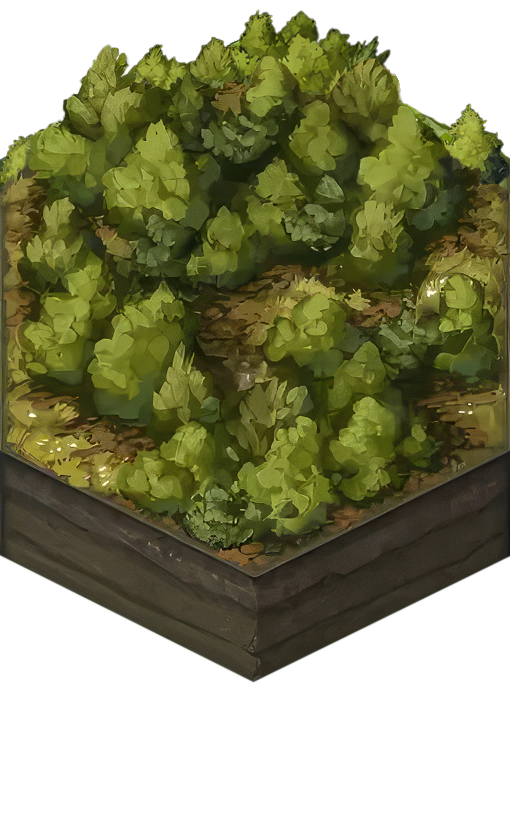
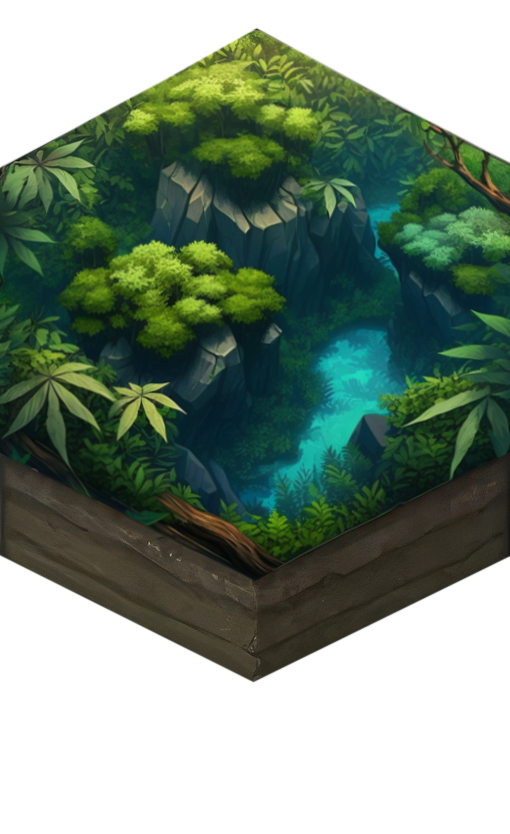
Nouvelles forêts

diff --git a/src/Vue/FenetreJeu.java b/src/Vue/FenetreJeu.java
@@ -59,14 +59,14 @@ public class FenetreJeu {
     private void initVignettePanel() {
         // Ajouter la vignette
         vignettePanel = new VignettePanel();
-        vignettePanel.setBounds(0, 0, 1400, 1000);
+        vignettePanel.setBounds(0, 0, largeur, hauteur);
         layeredPane.add(vignettePanel, JLayeredPane.PALETTE_LAYER);
     }
 
     private void initHexagonsPanel(ControleurMediateur controleur) {
         // Ajouter les tuiles hexagonales
         hexTiles = new HexagonalTiles(this, controleur, this.jeu);
-        hexTiles.setBounds(0, 0, 1400, 1000);
+        hexTiles.setBounds(0, 0, largeur, hauteur);
         layeredPane.add(hexTiles, JLayeredPane.DEFAULT_LAYER);
     }
 
@@ -80,7 +80,7 @@ public class FenetreJeu {
     private void initButtonPanel() {
         createButtonPanel();
         buttonPanel.setBackground(new Color(0,0,0,0));
-        buttonPanel.setBounds(0, 0, 1400, 1000);
+        buttonPanel.setBounds(0, 0, largeur, hauteur);
         buttonPanel.setOpaque(false);
         layeredPane.add(buttonPanel, JLayeredPane.POPUP_LAYER);
     }
@@ -98,19 +98,21 @@ public class FenetreJeu {
                 double rapport = 207.0 / 603.0;
                 largeur_bouton = Math.min(Math.max(Math.min(largeur / 6, hauteur / 6), 100), 190);
                 hauteur_bouton = (int) (largeur_bouton * rapport);
-                posX_boutons = (int) (largeur * 0.95 - largeur_bouton);
+                posX_boutons = largeur - largeur_bouton - 35;
                 posY_save = 0;
                 posX_save = posX_boutons - largeur_bouton - largeur_bouton / 10;
                 posY_annuler = posY_save + 2 * hauteur_bouton + hauteur_bouton / 5;
                 posY_refaire = posY_annuler + hauteur_bouton + hauteur_bouton / 5;
                 posY_reset = posY_refaire + hauteur_bouton + hauteur_bouton / 5;
-                posY_quitter = (int) Math.max(posY_refaire + hauteur_bouton + hauteur_bouton / 5, hauteur - 1.5 * hauteur_bouton);
+                posY_quitter = (int) Math.max(posY_refaire + 39 + hauteur_bouton + hauteur_bouton / 5, hauteur - 1.5 * hauteur_bouton - 39);
                 afficheBoutonSave(g2d);
                 afficheBoutonLoad(g2d);
                 afficheBoutonAnnuler(g2d);
                 afficheBoutonRefaire(g2d);
                 afficheBoutonReset(g2d);
                 afficheBoutonQuitter(g2d);
+                //System.out.println("hauteur menu : " + getHeight());
+                //System.out.println("hauteur frame : " + f.getHeight());
             }
         };
     }
@@ -122,15 +124,17 @@ public class FenetreJeu {
         //récupère la taille de l'écran
         Dimension screenSize = Toolkit.getDefaultToolkit().getScreenSize();
         //Définit la taille de la fenêtre à 60% de la taille de l'écran
-        f.setSize(screenSize.width * 6 / 10, screenSize.height * 6 / 10);
+        largeur = screenSize.width * 6 / 10;
+        hauteur = screenSize.height * 6 / 10;
+        f.setSize(largeur, hauteur);
         f.setDefaultCloseOperation(JFrame.EXIT_ON_CLOSE);
         f.setLocationRelativeTo(null);
     }
 
     private JFrame getF() {
-        bouton_save = lisImageBuf("save");
+        bouton_save = lisImageBuf("Sauvegarder");
         //bouton_save_select = lisImageBuf("Sauvegarder_select");
-        bouton_load = lisImageBuf("load");
+        bouton_load = lisImageBuf("Charger");
         //bouton_load_select = lisImageBuf("Charger_select");
         bouton_annuler = lisImageBuf("Annuler");
         //bouton_annuler_select = lisImageBuf("Annuler_select");

diff --git a/src/Vue/FenetreListener.java b/src/Vue/FenetreListener.java
@@ -91,8 +91,10 @@ public class FenetreListener extends MouseAdapter implements MouseWheelListener 
     ////////////////////////////
     public class MouseHandler extends MouseAdapter implements MouseWheelListener {
         Point lastPosition;
+
         @Override
         public void mouseClicked(MouseEvent e) {
+            System.out.println("Clic en " + e.getX() + " " + e.getY());
             tengine.hexTiles.addToCursor(e);
             tengine.hexTiles.annuleConstruction(e);
         }
